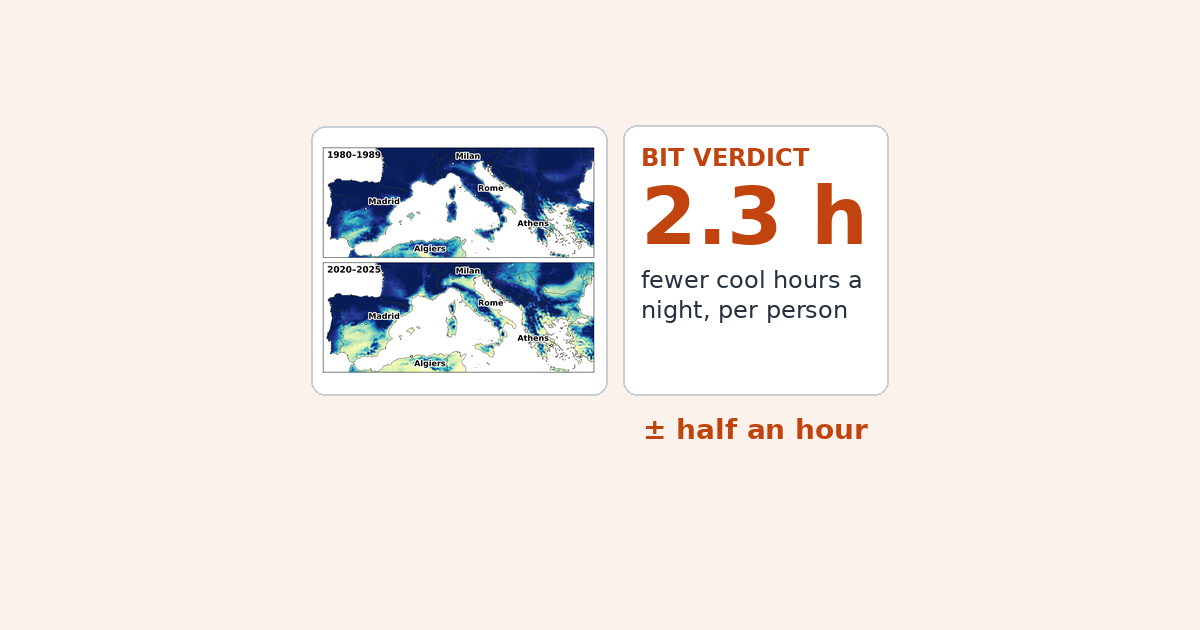
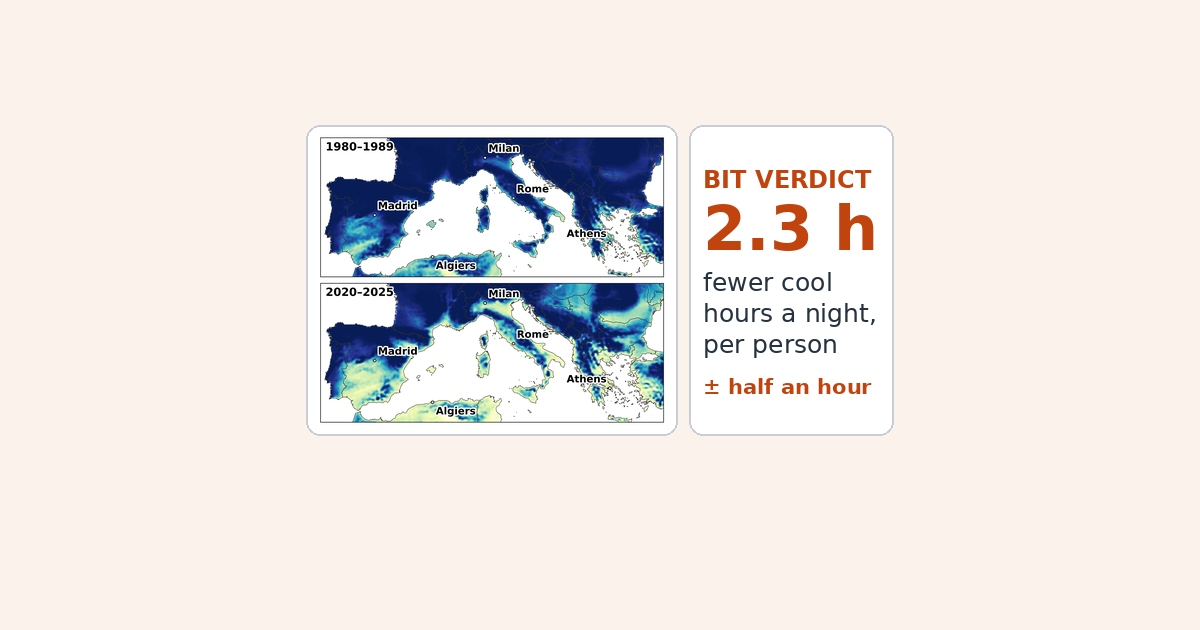
Preview: taller panels, range inside the Verdict box (mobile first)

Changed region(s): [[0.2467, 0.181, 0.74, 0.6937]]

diff --git a/code/make_preview.py b/code/make_preview.py
@@ -30,7 +30,7 @@ TXT = {"en": dict(kicker="BIT VERDICT", gloss="fewer cool hours a night, per per
        "it": dict(kicker="BIT VERDETTO", gloss="ore fresche in meno a notte, a persona", rng={"half an hour": "± mezz’ora"},
                   fig="fig-001-preview-map-it.png", out="fig-001-preview-it.png")}[LANG]
 W, H = 1200, 630
-SAFE = (310, 125, 890, 455); TOP_END = 395            # panels in y 125-395; the bottom band only for the range line
+SAFE = (305, 80, 895, 480)     # mobile first (decision 33): everything that matters inside x 305-895, y 80-480
 SQUARE = (285, 0, 915, 630)
 BG, PANEL, BORDER, ACCENT, INK = (251, 242, 236), "white", (201, 206, 214), "#C1440E", "#26323F"
 fdir = os.path.join(matplotlib.get_data_path(), "fonts", "ttf")
@@ -46,15 +46,18 @@ if not m:
 hero = (m.group(1).replace(".", ",") if LANG == "it" else m.group(1)) + " h"
 rng = TXT["rng"].get(m.group(2), "") if m.group(2) else ""
 
-# left panel: the two maps, uncropped
-PH = TOP_END - y0; LW = round(PH * 1.1); PAD = 8
-d.rounded_rectangle([x0 + 1, y0 + 1, x0 + LW, TOP_END], radius=14, fill=PANEL, outline=BORDER, width=2)
+# left panel: the two maps, uncropped; the panel takes the maps' own shape (no empty band), and
+# both panels are centred vertically in the zone. The range sits inside the Verdict panel (5 Oct).
+LW, PAD, GAP = 372, 8, 12
 f = Image.open(FIGURES / TXT["fig"]).convert("RGB")
-s = min((LW - 2 * PAD) / f.width, (PH - 2 * PAD) / f.height); fw, fh = round(f.width * s), round(f.height * s)
-img.paste(f.resize((fw, fh), Image.LANCZOS), (x0 + (LW - fw) // 2, y0 + (PH - fh) // 2))
-# right panel: kicker, hero number, gloss
-rx0 = x0 + LW + 16; rw = x1 - 2 - rx0; ip = 18; cw = rw - 2 * ip     # 2 px in: the outline stays inside
-d.rounded_rectangle([rx0, y0, x1 - 2, TOP_END], radius=14, fill=PANEL, outline=BORDER, width=2)
+fw = LW - 2 * PAD; fh = round(f.height * fw / f.width)
+PH = fh + 2 * PAD
+py0 = y0 + ((y1 - y0) - PH) // 2; py1 = py0 + PH
+d.rounded_rectangle([x0 + 1, py0, x0 + LW, py1], radius=14, fill=PANEL, outline=BORDER, width=2)
+img.paste(f.resize((fw, fh), Image.LANCZOS), (x0 + PAD + 1, py0 + PAD))
+# right panel: kicker, hero number, gloss, range
+rx0 = x0 + LW + GAP; rw = x1 - 2 - rx0; ip = 14; cw = rw - 2 * ip     # 2 px in: the outline stays inside
+d.rounded_rectangle([rx0, py0, x1 - 2, py1], radius=14, fill=PANEL, outline=BORDER, width=2)
 size = 120
 while size > 1 and d.textlength(hero, font=font(size, True)) > cw: size -= 1
 if size < 60:
@@ -66,22 +69,26 @@ while gs >= 20:
         t = (ls[-1] + " " + w_).strip()
         if d.textlength(t, font=font(gs)) <= cw: ls[-1] = t
         else: ls.append(w_)
-    if len(ls) <= 2: lines = ls; break
+    if len(ls) <= 3: lines = ls; break
     gs -= 1
 if lines is None:
-    sys.exit("FAIL: the gloss needs more than 2 lines")
-y = y0 + ip
-d.text((rx0 + ip, y), TXT["kicker"], font=font(24, True), fill=ACCENT); y += 24 + 16
-hb = d.textbbox((0, 0), hero, font=font(size, True)); d.text((rx0 + ip, y - hb[1]), hero, font=font(size, True), fill=ACCENT)
-y += hb[3] - hb[1] + 20
+    sys.exit("FAIL: the gloss needs more than 3 lines")
+ks = 24
+while ks > 16 and d.textlength(TXT['kicker'], font=font(ks, True)) > cw: ks -= 1
+rs = 26
+while rng and rs > 16 and d.textlength(rng, font=font(rs, True)) > cw: rs -= 1
+rf = font(rs, True)
+hb = d.textbbox((0, 0), hero, font=font(size, True))
+block = ks + 14 + (hb[3] - hb[1]) + 16 + round(gs * 1.25) * len(lines) + (14 + rs if rng else 0)
+y = py0 + (PH - block) // 2
+d.text((rx0 + ip, y), TXT["kicker"], font=font(ks, True), fill=ACCENT); y += ks + 14
+d.text((rx0 + ip, y - hb[1]), hero, font=font(size, True), fill=ACCENT); y += hb[3] - hb[1] + 16
 for ln in lines:
     d.text((rx0 + ip, y), ln, font=font(gs), fill=INK); y += round(gs * 1.25)
-if y > TOP_END - 6:
-    sys.exit("FAIL: the verdict panel overflows")
-# the bottom band: the range line, which may be lost in a crop
 if rng:
-    rf = font(28, True); rwid = d.textlength(rng, font=rf)
-    d.text((rx0 + (rw - rwid) / 2, TOP_END + 18), rng, font=rf, fill=ACCENT)
+    y += 14; d.text((rx0 + ip, y), rng, font=rf, fill=ACCENT); y += rs
+if y > py1 - 10:
+    sys.exit("FAIL: the verdict panel overflows")
 FIGURES.mkdir(exist_ok=True); img.save(FIGURES / TXT["out"])
 
 # ---- read the PNG back, and save the 160 px and square-crop checks ----------------------------
